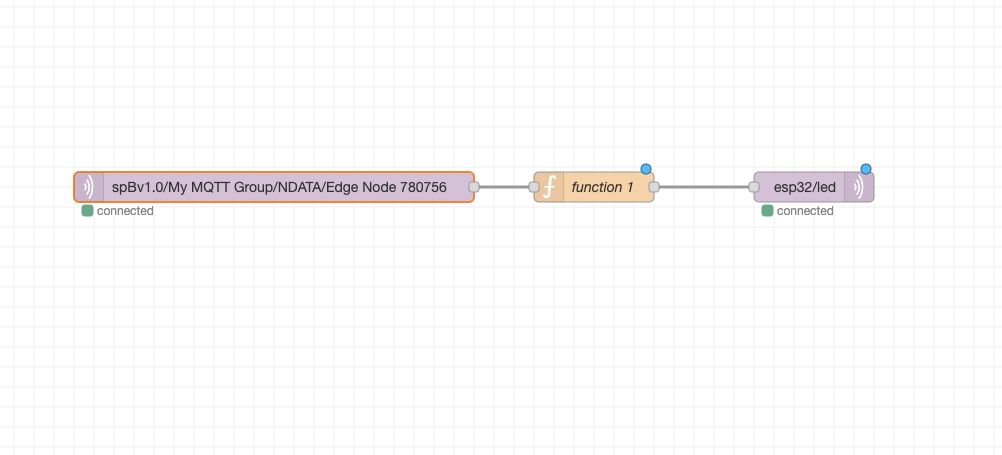
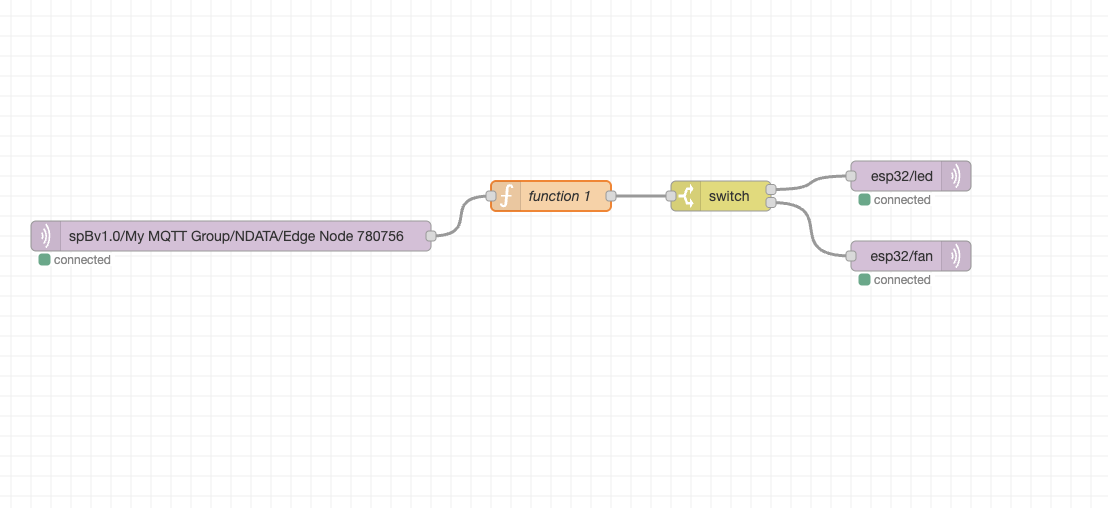
Updated the project to include more hardware, and connection

Changed region(s): [[0.0, 0.3077, 0.8972, 0.5846]]

diff --git a/Node-Red_Configs/function_1.js b/Node-Red_Configs/function_1.js
@@ -1,25 +1,46 @@
-node.warn("Raw message received");
+// Debug: Log the raw message
+node.warn("Raw message received: " + msg.topic);
 
-// Simple approach: Look for "LightStatus" in the raw payload
+// Simple approach: Look for device status tags in the raw payload
 if (msg.payload) {
-  // Converting buffer to string to search for our tag name
+  // Convert buffer to string to search for our tag names
   let payloadStr = msg.payload.toString();
 
-  // Checking if this message contains LightStatus
+  // Check if this message contains LightStatus
   if (payloadStr.includes("LightStatus")) {
     node.warn("Found LightStatus in message");
+
+    let ledMsg = { topic: "esp32/led", payload: "" };
+
     if (global.get("ledState")) {
       global.set("ledState", false);
-      msg.payload = "ON";
+      ledMsg.payload = "OFF";
     } else {
       global.set("ledState", true);
-      msg.payload = "OFF";
+      ledMsg.payload = "ON";
     }
 
-    msg.topic = "esp32/led";
-    node.warn("Sending: " + msg.payload);
-    return msg;
+    node.warn("Sending LED: " + ledMsg.payload);
+    return [ledMsg, null]; // Output 1 for LED
+  }
+
+  // Check if this message contains FanStatus
+  if (payloadStr.includes("FanStatus")) {
+    node.warn("Found FanStatus in message");
+
+    let fanMsg = { topic: "esp32/fan", payload: "" };
+
+    if (global.get("fanState")) {
+      global.set("fanState", false);
+      fanMsg.payload = "OFF";
+    } else {
+      global.set("fanState", true);
+      fanMsg.payload = "ON";
+    }
+
+    node.warn("Sending Fan: " + fanMsg.payload);
+    return [fanMsg, null]; // Output 2 for Fan
   }
 }
 
-return null;
+return [null, null];
